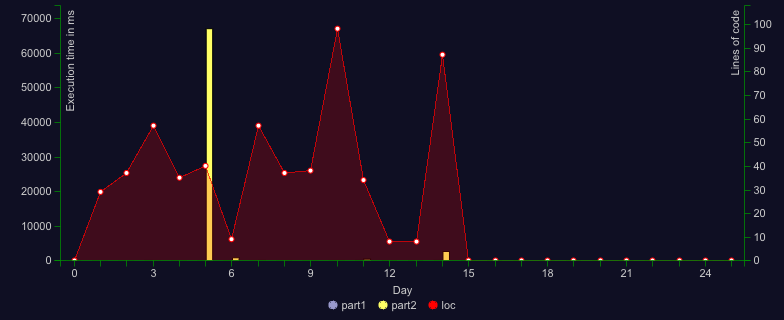
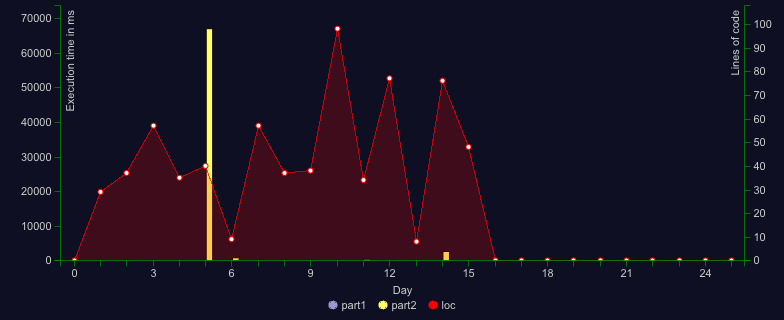
day 15: done

Changed region(s): [[0.4592, 0.1562, 0.6429, 0.8125]]

diff --git a/day-15/index.ts b/day-15/index.ts
@@ -1,0 +1,49 @@
+import { Examples, Solution } from '~types'
+import { map, pipe, product, sum } from 'ramda'
+
+export const parse = (input: string) => input.replace('\n', '').split(',')
+
+const hash = (input: string) =>
+  input
+    .split('')
+    .map((c) => c.charCodeAt(0))
+    .reduce((acc, n) => ((acc + n) * 17) % 256, 0)
+
+export const p1: Solution<typeof parse> = pipe(map(hash), sum)
+
+type Lens = { label: string; focal: string }
+type Box = Lens[]
+export const p2: Solution<typeof parse> = (input) => {
+  const boxes = input
+    .map((seq) => seq.match(/(\w+)([=-])(\d)?/).slice(1) as string[])
+    .map((match) => [hash(match[0]), ...match] as string[])
+    .reduce(
+      (acc, [h, label, op, focal]) => {
+        let box: Box = acc[h] ?? []
+
+        if (op === '=') {
+          const i = box.findIndex((b) => b.label === label)
+          box[i === -1 ? box.length : i] = { label, focal }
+        }
+        if (op == '-') {
+          box = box.filter((b) => b.label !== label)
+        }
+
+        acc[h] = box
+
+        return acc
+      },
+      {} as Record<number, Box>,
+    )
+
+  return Object.entries(boxes)
+    .flatMap(([b, box]) => box.map(({ focal }, i) => [+b + 1, i + 1, +focal]))
+    .map(product)
+    .reduce((acc, n) => acc + n, 0)
+}
+
+export const p1ex: Examples = [
+  { expected: 1320, input: 'rn=1,cm-,qp=3,cm=2,qp-,pc=4,ot=9,ab=5,pc-,pc=6,ot=7' },
+]
+
+export const p2ex: Examples = [{ expected: 145, input: p1ex[0].input }]

diff --git a/README.md b/README.md
@@ -25,7 +25,7 @@
 ![Day](https://badgen.net/badge/12/%E2%98%86%E2%98%86/gray)
 ![Day](https://badgen.net/badge/13/%E2%98%86%E2%98%86/gray)
 [![Day](https://badgen.net/badge/14/%E2%98%85%E2%98%85/green)](day-14/index.ts)
-![Day](https://badgen.net/badge/15/%E2%98%86%E2%98%86/gray)
+[![Day](https://badgen.net/badge/15/%E2%98%85%E2%98%85/green)](day-15/index.ts)
 ![Day](https://badgen.net/badge/16/%E2%98%86%E2%98%86/gray)
 ![Day](https://badgen.net/badge/17/%E2%98%86%E2%98%86/gray)
 ![Day](https://badgen.net/badge/18/%E2%98%86%E2%98%86/gray)
@@ -145,9 +145,9 @@ Both parts: 2619.91 ms
 
 ```
 Day 15
-Time part 1: -
-Time part 2: -
-Both parts: -
+Time part 1: 1.44 ms
+Time part 2: 32.82 ms
+Both parts: 34.26 ms
 ```
 
 ```
@@ -221,8 +221,8 @@ Both parts: -
 ```
 
 ```
-Total stars: 24/50
-Total time: 70909.7 ms
+Total stars: 26/50
+Total time: 70943.96 ms
 ```
 
 <!--/RESULTS-->
